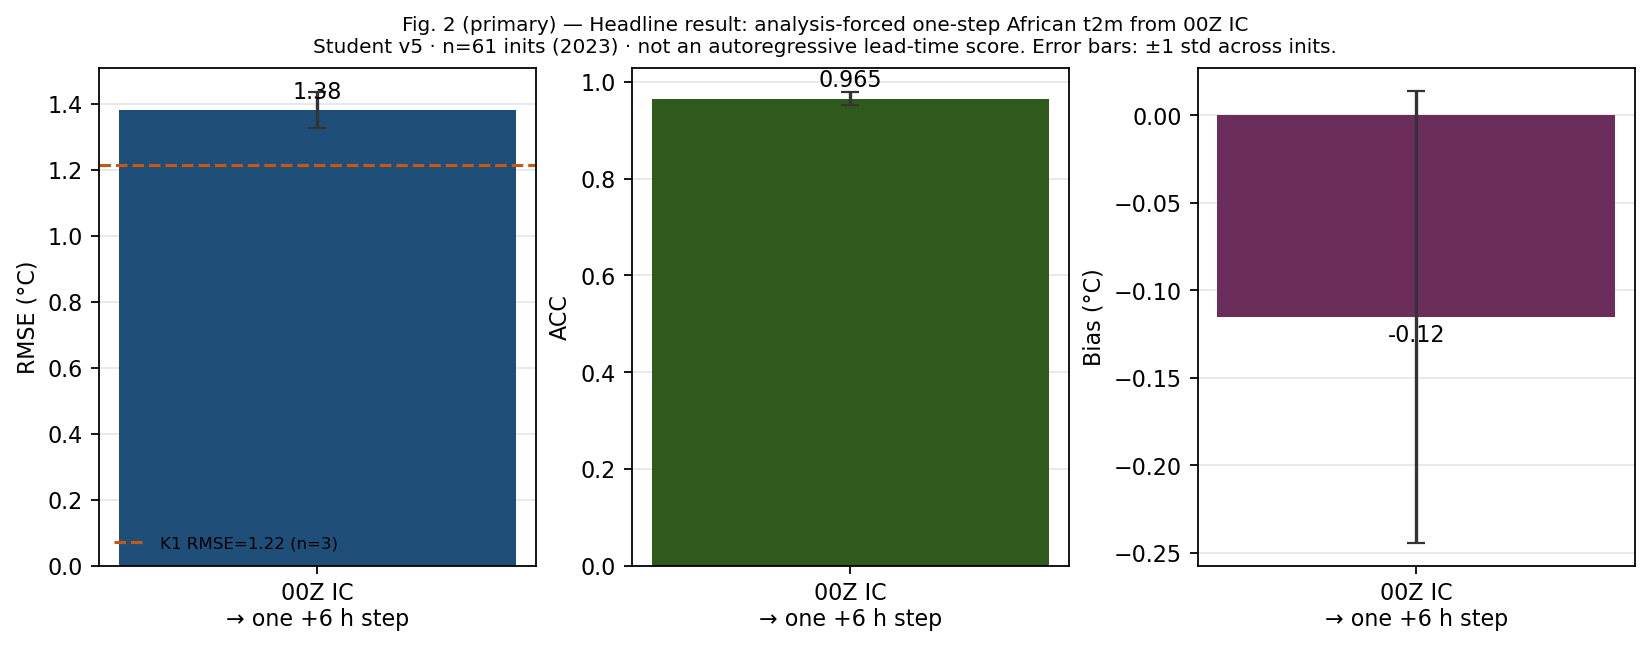
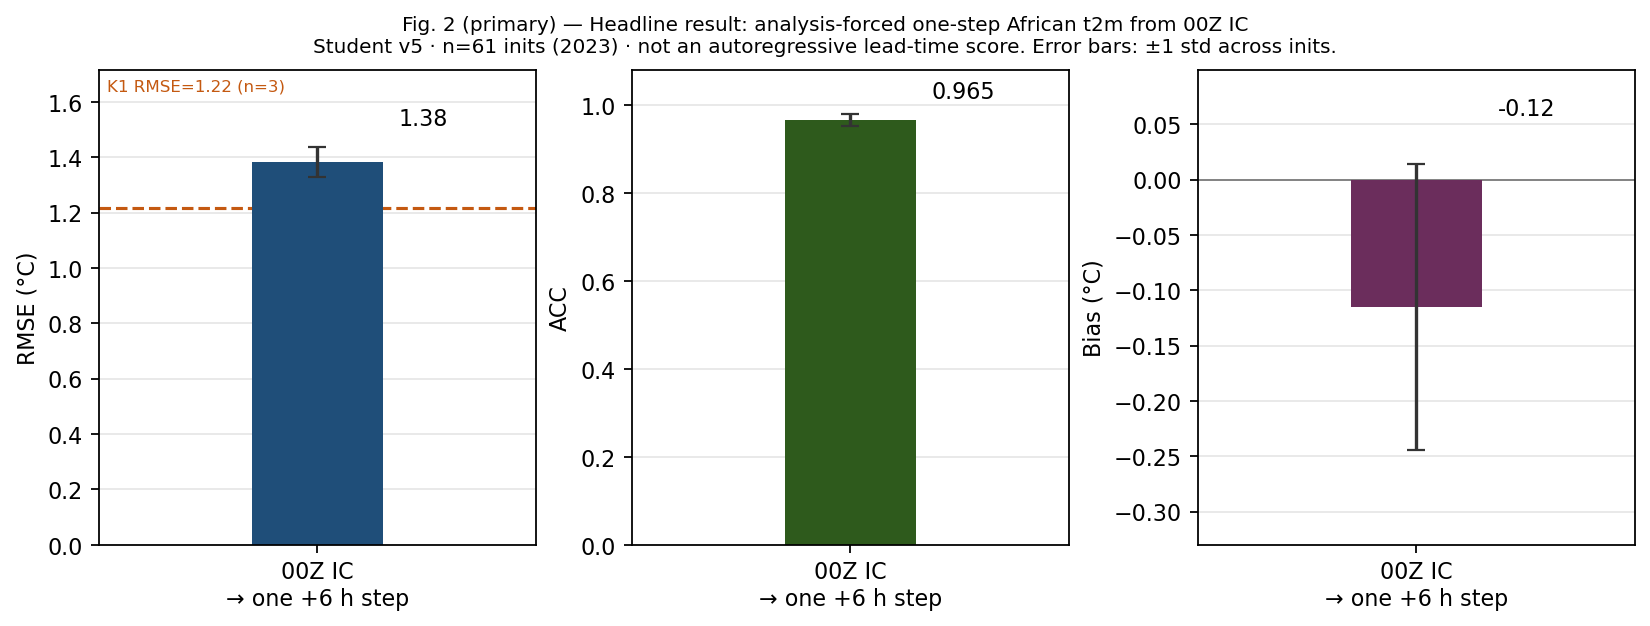
Fix overlapping labels on Fig. 2 primary panel.
Move K1 note and bar values clear of the fill and error bars.

diff --git a/scripts/plot_mvula_report_fig02_fig03.py b/scripts/plot_mvula_report_fig02_fig03.py
@@ -400,31 +400,68 @@ def fig2_primary_00z(student, k1) -> None:
         float(np.mean([float(r["variables"]["t2m"]["rmse"]) for r in k1_rows])) if k1_rows else float("nan")
     )
 
-    fig, axes = plt.subplots(1, 3, figsize=(10.2, 3.6), constrained_layout=True)
+    fig, axes = plt.subplots(1, 3, figsize=(10.2, 3.8), constrained_layout=True)
     panels = [
         (axes[0], "RMSE (°C)", float(rmse.mean()), float(rmse.std(ddof=1)), k1_rmse, "#1f4e79"),
         (axes[1], "ACC", float(acc.mean()), float(acc.std(ddof=1)), None, "#2e5a1c"),
         (axes[2], "Bias (°C)", float(bias.mean()), float(bias.std(ddof=1)), None, "#6b2d5c"),
     ]
     for ax, ylabel, mean, std, k1v, color in panels:
-        ax.bar([0], [mean], color=color, width=0.55, zorder=2)
+        ax.bar([0], [mean], color=color, width=0.45, zorder=2)
         ax.errorbar([0], [mean], yerr=[std], fmt="none", ecolor="#333333", capsize=4, zorder=3)
         ax.set_xticks([0])
         ax.set_xticklabels(["00Z IC\n→ one +6 h step"])
         ax.set_ylabel(ylabel)
         ax.grid(True, axis="y", alpha=0.3, zorder=0)
+        ax.set_xlim(-0.75, 0.75)
+        # Clear room above the error bar for the numeric label
+        top = mean + abs(std)
+        bottom = mean - abs(std)
+        if ylabel.startswith("Bias"):
+            pad = 0.35 * max(abs(top), abs(bottom), 0.2)
+            ax.set_ylim(min(0.0, bottom) - pad, max(0.0, top) + pad)
+            ax.axhline(0.0, color="#666666", lw=0.8, zorder=1)
+        elif ylabel == "ACC":
+            ax.set_ylim(0.0, 1.08)
+        else:
+            ax.set_ylim(0.0, top + 0.28)
         label = f"{mean:.3g}" if ylabel == "ACC" else f"{mean:.2f}"
-        ax.bar_label(ax.containers[0], labels=[label], padding=3, fontsize=10)
+        # Offset value to the right of the bar so it clears the error bar / fill
+        if ylabel.startswith("Bias"):
+            y_text = max(0.0, top) + 0.04
+        elif ylabel == "ACC":
+            y_text = mean + abs(std) + 0.025
+        else:
+            y_text = top + 0.06
+        ax.annotate(
+            label,
+            xy=(0, mean),
+            xytext=(0.28, y_text),
+            fontsize=10,
+            ha="left",
+            va="bottom",
+            annotation_clip=False,
+        )
         if k1v is not None and isinstance(k1v, (int, float)) and k1v == k1v:
-            ax.axhline(k1v, color="#c45911", ls="--", lw=1.4, label=f"K1 RMSE={k1v:.2f} (n={len(k1_rows)})")
-            ax.legend(frameon=False, fontsize=7.5)
+            ax.axhline(k1v, color="#c45911", ls="--", lw=1.4, zorder=1)
+            # Place K1 note outside the bar (upper-left), not over the fill
+            ax.text(
+                0.02,
+                0.98,
+                f"K1 RMSE={k1v:.2f} (n={len(k1_rows)})",
+                transform=ax.transAxes,
+                ha="left",
+                va="top",
+                fontsize=7.5,
+                color="#c45911",
+                bbox=dict(boxstyle="round,pad=0.2", facecolor="white", edgecolor="none", alpha=0.9),
+            )
 
     fig.suptitle(
         "Fig. 2 (primary) — Headline result: analysis-forced one-step African t2m from 00Z IC\n"
         f"Student v5 · n={len(rows)} inits (2023) · not an autoregressive lead-time score. "
         "Error bars: ±1 std across inits.",
         fontsize=9,
-        y=1.08,
     )
     fig.savefig(OUT2_PRIMARY, dpi=160, bbox_inches="tight")
     plt.close(fig)
